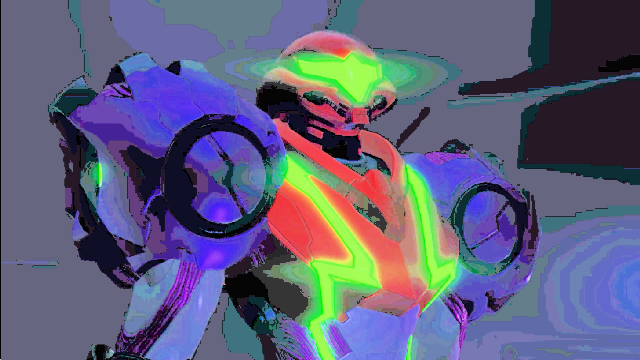
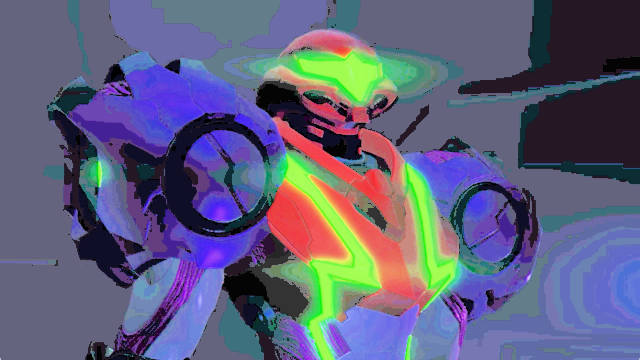
Interpolation changed to 'area', added black screen Shannon entropy level for more robust black screen load detection

diff --git a/src/settings.py b/src/settings.py
@@ -51,6 +51,8 @@ class __SettingsWidget(QtWidgets.QWidget, settings_ui.Ui_SettingsWidget):
         match key:
             case "black_threshold":
                 self.__set_value("black_threshold", value)
+            case "black_entropy_threshold":
+                self.__set_value("black_threshold", value)
             case "load_confidence_threshold":
                 self.__set_value("load_confidence_threshold_ms", value)
             case "similarity_threshold_elevator":
@@ -85,9 +87,7 @@ class __SettingsWidget(QtWidgets.QWidget, settings_ui.Ui_SettingsWidget):
         self.capture_device_combobox.setEnabled(is_video_capture_device)
         if is_video_capture_device:
             self.capture_device_combobox.setCurrentIndex(
-                self.get_capture_device_index(
-                    self._zdcurtain_ref.settings_dict["capture_device_id"]
-                )
+                self.get_capture_device_index(self._zdcurtain_ref.settings_dict["capture_device_id"])
             )
         else:
             self.capture_device_combobox.setPlaceholderText('Select "Video Capture Device" above')
@@ -109,10 +109,7 @@ class __SettingsWidget(QtWidgets.QWidget, settings_ui.Ui_SettingsWidget):
         capture_device = self.__video_capture_devices[device_index]
         self._zdcurtain_ref.settings_dict["capture_device_name"] = capture_device.name
         self._zdcurtain_ref.settings_dict["capture_device_id"] = capture_device.device_id
-        if (
-            self._zdcurtain_ref.settings_dict["capture_method"]
-            == CaptureMethodEnum.VIDEO_CAPTURE_DEVICE
-        ):
+        if self._zdcurtain_ref.settings_dict["capture_method"] == CaptureMethodEnum.VIDEO_CAPTURE_DEVICE:
             # Re-initializes the VideoCaptureDeviceCaptureMethod
             change_capture_method(CaptureMethodEnum.VIDEO_CAPTURE_DEVICE, self._zdcurtain_ref)
 
@@ -147,37 +144,29 @@ class __SettingsWidget(QtWidgets.QWidget, settings_ui.Ui_SettingsWidget):
             )
             hotkey_input.setText(self._zdcurtain_ref.settings_dict.get(f"{hotkey}_hotkey", ""))
 
-            set_hotkey_hotkey_button.clicked.connect(
-                partial(set_hotkey, self._zdcurtain_ref, hotkey=hotkey)
-            )
+            set_hotkey_hotkey_button.clicked.connect(partial(set_hotkey, self._zdcurtain_ref, hotkey=hotkey))
 
         # region Set initial values
         # Capture Settings
         self.fps_limit_spinbox.setValue(self._zdcurtain_ref.settings_dict["fps_limit"])
-        self.live_capture_region_checkbox.setChecked(
-            self._zdcurtain_ref.settings_dict["live_capture_region"]
-        )
+        self.live_capture_region_checkbox.setChecked(self._zdcurtain_ref.settings_dict["live_capture_region"])
         self.capture_method_combobox.setCurrentIndex(
             CAPTURE_METHODS.get_index(self._zdcurtain_ref.settings_dict["capture_method"])
         )
 
         # Image Analysis Settings
-        self.black_threshold_spinbox.setValue(self._zdcurtain_ref.settings_dict["black_threshold"])
+        self.black_screen_threshold_spinbox.setValue(self._zdcurtain_ref.settings_dict["black_threshold"])
         self.load_confidence_threshold_spinbox.setValue(
             self._zdcurtain_ref.settings_dict["load_confidence_threshold_ms"]
         )
         self.elevator_similarity_spinbox.setValue(
             self._zdcurtain_ref.settings_dict["similarity_threshold_elevator"]
         )
-        self.tram_similarity_spinbox.setValue(
-            self._zdcurtain_ref.settings_dict["similarity_threshold_tram"]
-        )
+        self.tram_similarity_spinbox.setValue(self._zdcurtain_ref.settings_dict["similarity_threshold_tram"])
         self.teleportal_similarity_spinbox.setValue(
             self._zdcurtain_ref.settings_dict["similarity_threshold_teleportal"]
         )
-        self.egg_similarity_spinbox.setValue(
-            self._zdcurtain_ref.settings_dict["similarity_threshold_egg"]
-        )
+        self.egg_similarity_spinbox.setValue(self._zdcurtain_ref.settings_dict["similarity_threshold_egg"])
         # endregion
 
         # region Binding
@@ -195,9 +184,14 @@ class __SettingsWidget(QtWidgets.QWidget, settings_ui.Ui_SettingsWidget):
         self.capture_device_combobox.currentIndexChanged.connect(self.__capture_device_changed)
 
         # Image Analysis Settings
-        self.black_threshold_spinbox.valueChanged.connect(
+        self.black_screen_threshold_spinbox.valueChanged.connect(
             lambda: self.__update_default_threshold(
-                "black_threshold", self.black_threshold_spinbox.value()
+                "black_threshold", self.black_screen_threshold_spinbox.value()
+            )
+        )
+        self.black_screen_entropy_threshold_spinbox.valueChanged.connect(
+            lambda: self.__update_default_threshold(
+                "black_entropy_threshold", self.black_screen_entropy_threshold_spinbox.value()
             )
         )
         self.load_confidence_threshold_spinbox.valueChanged.connect(
@@ -255,7 +249,8 @@ def get_default_settings_from_ui(zdcurtain: "ZDCurtain"):
         "captured_window_title": "",
         "pause_hotkey": default_settings_dialog.pause_input.text(),
         "start_tracking_automatically": default_settings_dialog.start_tracking_automatically_checkbox.isChecked(),
-        "black_threshold": default_settings_dialog.black_threshold_spinbox.value(),
+        "black_threshold": default_settings_dialog.black_screen_threshold_spinbox.value(),
+        "black_entropy_threshold": default_settings_dialog.black_screen_entropy_threshold_spinbox.value(),
         "similarity_algorithm_elevator": DEFAULT_PROFILE["similarity_algorithm_elevator"],
         "similarity_algorithm_tram": DEFAULT_PROFILE["similarity_algorithm_tram"],
         "similarity_algorithm_teleportal": DEFAULT_PROFILE["similarity_algorithm_teleportal"],
@@ -264,15 +259,11 @@ def get_default_settings_from_ui(zdcurtain: "ZDCurtain"):
         "similarity_use_normalized_capture_elevator": DEFAULT_PROFILE[
             "similarity_use_normalized_capture_elevator"
         ],
-        "similarity_use_normalized_capture_tram": DEFAULT_PROFILE[
-            "similarity_use_normalized_capture_tram"
-        ],
+        "similarity_use_normalized_capture_tram": DEFAULT_PROFILE["similarity_use_normalized_capture_tram"],
         "similarity_use_normalized_capture_teleportal": DEFAULT_PROFILE[
             "similarity_use_normalized_capture_teleportal"
         ],
-        "similarity_use_normalized_capture_egg": DEFAULT_PROFILE[
-            "similarity_use_normalized_capture_egg"
-        ],
+        "similarity_use_normalized_capture_egg": DEFAULT_PROFILE["similarity_use_normalized_capture_egg"],
         "similarity_use_normalized_capture_end_screen": DEFAULT_PROFILE[
             "similarity_use_normalized_capture_end_screen"
         ],
@@ -318,11 +309,25 @@ def build_documentation(self):
     black_threshold_tooltip = (
         "Tolerance for black screen loads. The lower the value, the\n"
         + "closer the screen needs to be to pure black for ZDCurtain\n"
-        + "to recognize the load."
+        + "to recognize the load.\n\n"
+        + "Use in conjunction with the Black Screen Entropy Threshold\n"
+        + "to recognize black screens regardless of individual hardware\n"
+        + "black level."
     )
 
-    self.black_threshold_label.setToolTip(black_threshold_tooltip)
-    self.black_threshold_spinbox.setToolTip(black_threshold_tooltip)
+    self.black_screen_threshold_label.setToolTip(black_threshold_tooltip)
+    self.black_screen_threshold_spinbox.setToolTip(black_threshold_tooltip)
+
+    black_entropy_threshold_tooltip = (
+        "Uniformity tolerance for black screen loads. The lower the value,\n"
+        + "the closer the screen needs to be to the same color for ZDCurtain\n"
+        + "to recognize the load.\n\n"
+        + "Set this value low to keep white screens from being recognized\n"
+        + "as loads."
+    )
+
+    self.black_screen_entropy_threshold_label.setToolTip(black_entropy_threshold_tooltip)
+    self.black_screen_entropy_threshold_spinbox.setToolTip(black_entropy_threshold_tooltip)
 
     load_confidence_threshold_tooltip = (
         "Threshold in milliseconds for ZDCurtain to recognize an area\n"

diff --git a/src/ZDCurtain.py b/src/ZDCurtain.py
@@ -35,9 +35,9 @@ import error_messages
 from about import open_about
 from capture_method import CaptureMethodBase, CaptureMethodEnum
 from frame_analysis import (
+    calculate_uniform_black_level,
     get_black_screen_detection_area,
     get_comparison_method_by_name,
-    is_black,
     normalize_brightness_histogram,
 )
 from hotkeys import HOTKEYS, after_setting_hotkey, send_command
@@ -56,6 +56,7 @@ from utils import (
     FROZEN,
     ONE_SECOND,
     ZDCURTAIN_VERSION,
+    imwrite,
     is_valid_image,
     list_processes,
     ms_to_msms,
@@ -115,6 +116,7 @@ class ZDCurtain(QMainWindow, design.Ui_MainWindow):
 
         # Heuristics
         self.black_level = 1.0
+        self.blacklevel_entropy = 0.0
         self.is_frame_black = False
         self.similarity_to_tram = 0.0
         self.similarity_to_tram_max = 0.0
@@ -150,6 +152,7 @@ class ZDCurtain(QMainWindow, design.Ui_MainWindow):
         # screenshots
         self.screenshot_timer = 0
         self.screenshot_counter = 1
+        self.take_screenshots = False
 
         load_comparison_images(self)
 
@@ -231,7 +234,7 @@ class ZDCurtain(QMainWindow, design.Ui_MainWindow):
 
             if is_valid_image(capture):
                 dim = (640, 360)
-                resized_capture = resize_image(capture, dim, 1, cv2.INTER_NEAREST)
+                resized_capture = resize_image(capture, dim, 1, cv2.INTER_AREA)
 
                 if self.settings_dict["live_capture_region"]:
                     set_preview_image(self.live_image, resized_capture)
@@ -243,12 +246,13 @@ class ZDCurtain(QMainWindow, design.Ui_MainWindow):
                     perform_black_level_analysis(self, cropped_capture)
                     perform_similarity_analysis(self, resized_capture, normalized_capture)
 
-                    # if self.screenshot_timer >= 12:
-                    # imwrite(f"sshot/sshot_{self.screenshot_counter}.png", resized_capture)
-                    # self.screenshot_timer = 0
-                    # self.screenshot_counter += 1
+                    if self.take_screenshots:
+                        if self.screenshot_timer >= 4:
+                            imwrite(f"sshot/sshot_{self.screenshot_counter}.png", normalized_capture)
+                            self.screenshot_timer = 0
+                            self.screenshot_counter += 1
 
-                    # self.screenshot_timer += 1
+                        self.screenshot_timer += 1
             else:
                 return  # self.__try_to_recover_capture()
 
@@ -305,6 +309,7 @@ class ZDCurtain(QMainWindow, design.Ui_MainWindow):
         self.is_load_being_removed = False
         self.in_black_screen = False
         self.black_level = 1.0
+        self.blacklevel_entropy = 100.0
         self.is_frame_black = False
         self.last_black_screen_time = 0
         self.load_confidence_delta = 0
@@ -432,11 +437,18 @@ def perform_load_removal_logic(self):
 
     check_load_cooldown(self)
 
-    if self.black_level < self.settings_dict["black_threshold"] and not self.in_black_screen:
+    if (
+        self.black_level < self.settings_dict["black_threshold"]
+        and self.blacklevel_entropy < self.settings_dict["black_entropy_threshold"]
+        and not self.in_black_screen
+    ):
         self.in_black_screen = True
         self.black_screen_detected_at_timestamp = perf_counter_ns()
 
-    if self.black_level >= self.settings_dict["black_threshold"] and self.in_black_screen:
+    if (
+        self.black_level >= self.settings_dict["black_threshold"]
+        or self.blacklevel_entropy >= self.settings_dict["black_entropy_threshold"]
+    ) and self.in_black_screen:
         self.black_screen_over_detected_at_timestamp = perf_counter_ns()
         self.in_black_screen = False
 
@@ -487,7 +499,7 @@ def perform_black_level_analysis(self, capture: MatLike | None):
     if not is_valid_image(capture):
         return
 
-    self.is_frame_black, self.black_level = is_black(capture)
+    self.black_level, self.blacklevel_entropy = calculate_uniform_black_level(capture)
 
     self.black_level = self.black_level / 255.0 * 100
 
@@ -611,8 +623,7 @@ def update_labels(self):  # noqa: PLR0912, PLR0915
     self.capture_region_window_label.setText(capture_region_window_label)
 
     self.image_black_label.setText(
-        f"Current black level {self.black_level:.4f}, "
-        + f"threshold {self.settings_dict['black_threshold']:.1f}%  "
+        f"Current black level {self.black_level:.4f}%, entropy {self.blacklevel_entropy:.4f}%"
     )
 
     self.similarity_to_elevator_label.setText(
@@ -640,7 +651,10 @@ def update_labels(self):  # noqa: PLR0912, PLR0915
         + f"max {self.similarity_to_end_screen_max:.4f}%)"
     )
 
-    if self.black_level < self.settings_dict["black_threshold"]:
+    if (
+        self.black_level < self.settings_dict["black_threshold"]
+        and self.blacklevel_entropy < self.settings_dict["black_entropy_threshold"]
+    ):
         self.black_indicator_label.setStyleSheet("background-color: green")
     else:
         self.black_indicator_label.setStyleSheet("background-color: red")

diff --git a/src/capture_method/__init__.py b/src/capture_method/__init__.py
@@ -17,9 +17,7 @@ if sys.platform == "win32":
 
     from capture_method.BitBltCaptureMethod import BitBltCaptureMethod
     from capture_method.DesktopDuplicationCaptureMethod import DesktopDuplicationCaptureMethod
-    from capture_method.ForceFullContentRenderingCaptureMethod import (
-        ForceFullContentRenderingCaptureMethod,
-    )
+    from capture_method.ForceFullContentRenderingCaptureMethod import ForceFullContentRenderingCaptureMethod
     from capture_method.WindowsGraphicsCaptureMethod import WindowsGraphicsCaptureMethod
 
 if sys.platform == "linux":
@@ -129,9 +127,7 @@ if sys.platform == "win32":
         pass
     else:
         CAPTURE_METHODS[CaptureMethodEnum.DESKTOP_DUPLICATION] = DesktopDuplicationCaptureMethod
-    CAPTURE_METHODS[CaptureMethodEnum.PRINTWINDOW_RENDERFULLCONTENT] = (
-        ForceFullContentRenderingCaptureMethod
-    )
+    CAPTURE_METHODS[CaptureMethodEnum.PRINTWINDOW_RENDERFULLCONTENT] = ForceFullContentRenderingCaptureMethod
 elif sys.platform == "linux":
     if features.check_feature(feature="xcb"):
         CAPTURE_METHODS[CaptureMethodEnum.XCB] = XcbCaptureMethod
@@ -166,7 +162,7 @@ def change_capture_method(selected_capture_method: CaptureMethodEnum, zdcurtain:
             )
 
     if zdcurtain.settings_dict["start_tracking_automatically"]:
-        zdcurtain.is_tracking = True
+        zdcurtain.begin_tracking()
 
     # disable_selection_buttons = selected_capture_method == CaptureMethodEnum.VIDEO_CAPTURE_DEVICE
     # zdcurtain.select_region_button.setDisabled(disable_selection_buttons)
@@ -221,10 +217,6 @@ def get_all_video_capture_devices():
         #     video_capture.release()
 
         resolution = get_input_device_resolution(index)
-        return (
-            CameraInfo(index, device_name, False, backend, resolution)
-            if resolution is not None
-            else None
-        )
+        return CameraInfo(index, device_name, False, backend, resolution) if resolution is not None else None
 
     return list(filter(None, starmap(get_camera_info, enumerate(named_video_inputs))))

diff --git a/src/frame_analysis.py b/src/frame_analysis.py
@@ -3,19 +3,26 @@ from math import floor, sqrt
 import cv2
 import numpy as np
 from cv2.typing import MatLike
+from skimage.measure import shannon_entropy
 
 from utils import MAXBYTE, ColorChannel, is_valid_image
 
 
-def is_black(capture: MatLike | None):
-    """Detect if the provided frame source is black."""
+def calculate_uniform_black_level(capture: MatLike | None):
+    """Get the average black level and entropy of the provided capture."""
     if not is_valid_image(capture):
         return False, 0.0
 
     gray = cv2.cvtColor(capture, cv2.COLOR_BGR2GRAY)
     average = np.average(gray)
 
-    return average < BLACK_THRESHOLD, average
+    bins = 128
+    hist, _ = np.histogram(gray.ravel(), bins=bins, range=(0, bins))
+
+    prob_dist = hist / hist.sum()
+    image_entropy = shannon_entropy(prob_dist, base=2) / 7 * 100  # min 0, max log(bins) = 7
+
+    return average, image_entropy
 
 
 def crop_image(capture: MatLike | None, x1, y1, x2, y2):
@@ -42,7 +49,6 @@ RANGES = (0, MAXRANGE, 0, MAXRANGE, 0, MAXRANGE)
 MASK_SIZE_MULTIPLIER = ColorChannel.Alpha * MAXBYTE * MAXBYTE
 MAX_VALUE = 1.0
 CV2_PHASH_SIZE = 8
-BLACK_THRESHOLD = 1
 
 
 def compare_histograms(source: MatLike, capture: MatLike, mask: MatLike | None = None):

diff --git a/src/user_profile.py b/src/user_profile.py
@@ -27,6 +27,7 @@ class UserProfileDict(TypedDict):
     pause_hotkey: str
     start_tracking_automatically: bool
     black_threshold: float
+    black_entropy_threshold: float
     similarity_algorithm_elevator: str
     similarity_algorithm_tram: str
     similarity_algorithm_teleportal: str
@@ -64,8 +65,9 @@ DEFAULT_PROFILE = UserProfileDict(
     captured_window_title="",
     pause_hotkey="",
     start_tracking_automatically=True,
-    black_threshold=0.2,
-    similarity_algorithm_elevator="histogram",
+    black_threshold=20,
+    black_entropy_threshold=2,
+    similarity_algorithm_elevator="l2norm",
     similarity_algorithm_tram="l2norm",
     similarity_algorithm_teleportal="l2norm",
     similarity_algorithm_egg="l2norm",
